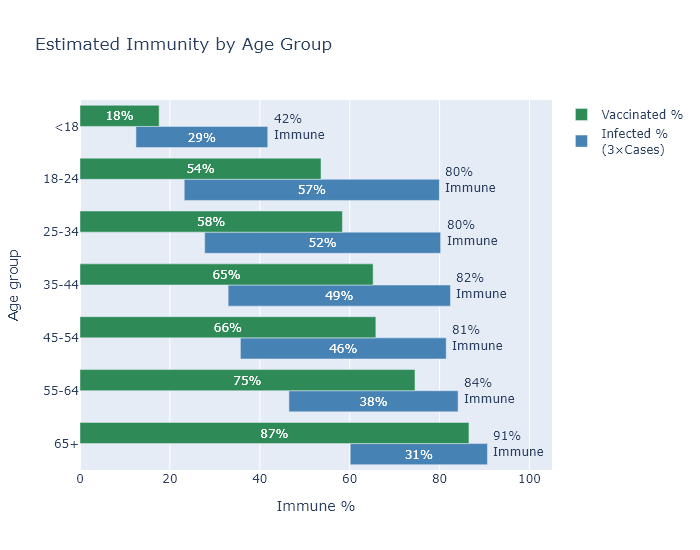
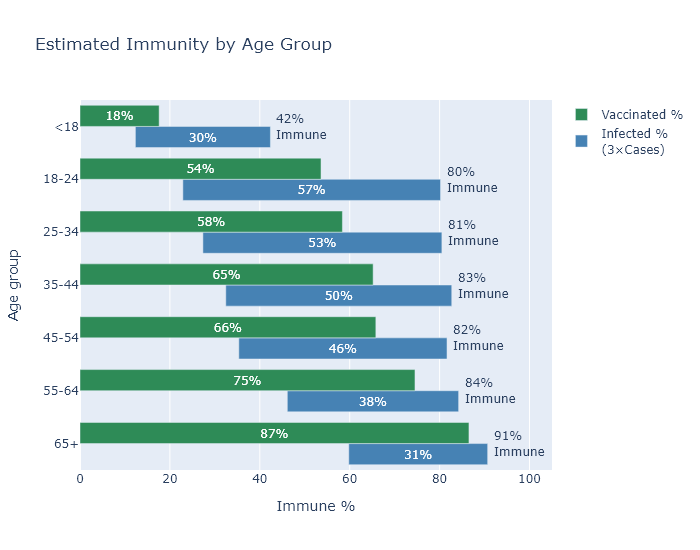
Immune update

diff --git a/docs/assets/plotly/Immune-Age.html b/docs/assets/plotly/Immune-Age.html
@@ -2,6 +2,6 @@
 <head><meta charset="utf-8" /></head>
 <body>
     <div>                        <script type="text/javascript">window.PlotlyConfig = {MathJaxConfig: 'local'};</script>
-        <script src="https://cdn.plot.ly/plotly-2.2.0.min.js"></script>                <div id="4af7ff85-3005-4d7d-97e8-a7afa78a392b" class="plotly-graph-div" style="height:550px; width:700px;"></div>            <script type="text/javascript">                                    window.PLOTLYENV=window.PLOTLYENV || {};                                    if (document.getElementById("4af7ff85-3005-4d7d-97e8-a7afa78a392b")) {                    Plotly.newPlot(                        "4af7ff85-3005-4d7d-97e8-a7afa78a392b",                        [{"alignmentgroup":"True","base":[60.1152527995265,46.476547258989115,35.68314380180941,32.95476228059364,27.73828306927856,23.188937403184084,12.44529407235307],"hovertemplate":"=Est Infected %<br>Base=%{base}<br>Immune %=%{x}<br>Age group=%{y}<br>Label=%{text}<extra></extra>","insidetextanchor":"middle","legendgroup":"Est Infected %","marker":{"color":"steelblue","pattern":{"shape":""}},"name":"Infected %<br>(3&times;Cases)","offsetgroup":"Est Infected %","orientation":"h","showlegend":true,"text":["31%","38%","46%","49%","52%","57%","29%"],"textposition":"inside","type":"bar","x":[30.523700455732744,37.63060369141561,45.78120459951647,49.46475261604958,52.482860107281155,56.751149912549636,29.3213140289945],"xaxis":"x","y":["65+","55-64","45-54","35-44","25-34","18-24","<18"],"yaxis":"y"},{"alignmentgroup":"True","base":[0.0,0.0,0.0,0.0,0.0,0.0,0.0],"hovertemplate":"=Vaccinated %<br>Base=%{base}<br>Immune %=%{x}<br>Age group=%{y}<br>Label=%{text}<extra></extra>","insidetextanchor":"middle","legendgroup":"Vaccinated %","marker":{"color":"seagreen","pattern":{"shape":""}},"name":"Vaccinated %","offsetgroup":"Vaccinated %","orientation":"h","showlegend":true,"text":["87%","75%","66%","65%","58%","54%","18%"],"textposition":"inside","type":"bar","x":[86.52627326707821,74.51819323220253,65.81323605262389,65.21143951312644,58.3753212670297,53.61746579688342,17.608270302957386],"xaxis":"x","y":["65+","55-64","45-54","35-44","25-34","18-24","<18"],"yaxis":"y"}],                        {"annotations":[{"align":"left","showarrow":false,"text":"42%<br>Immune","x":48.76660810134757,"y":"<18"},{"align":"left","showarrow":false,"text":"80%<br>Immune","x":86.94008731573372,"y":"18-24"},{"align":"left","showarrow":false,"text":"80%<br>Immune","x":87.2211431765597,"y":"25-34"},{"align":"left","showarrow":false,"text":"82%<br>Immune","x":89.41951489664322,"y":"35-44"},{"align":"left","showarrow":false,"text":"81%<br>Immune","x":88.46434840132588,"y":"45-54"},{"align":"left","showarrow":false,"text":"84%<br>Immune","x":91.10715095040472,"y":"55-64"},{"align":"left","showarrow":false,"text":"91%<br>Immune","x":97.63895325525924,"y":"65+"}],"barmode":"group","height":550,"legend":{"title":{"text":""},"tracegroupgap":0,"traceorder":"reversed"},"showlegend":true,"template":{"data":{"bar":[{"error_x":{"color":"#2a3f5f"},"error_y":{"color":"#2a3f5f"},"marker":{"line":{"color":"#E5ECF6","width":0.5},"pattern":{"fillmode":"overlay","size":10,"solidity":0.2}},"type":"bar"}],"barpolar":[{"marker":{"line":{"color":"#E5ECF6","width":0.5},"pattern":{"fillmode":"overlay","size":10,"solidity":0.2}},"type":"barpolar"}],"carpet":[{"aaxis":{"endlinecolor":"#2a3f5f","gridcolor":"white","linecolor":"white","minorgridcolor":"white","startlinecolor":"#2a3f5f"},"baxis":{"endlinecolor":"#2a3f5f","gridcolor":"white","linecolor":"white","minorgridcolor":"white","startlinecolor":"#2a3f5f"},"type":"carpet"}],"choropleth":[{"colorbar":{"outlinewidth":0,"ticks":""},"type":"choropleth"}],"contour":[{"colorbar":{"outlinewidth":0,"ticks":""},"colorscale":[[0.0,"#0d0887"],[0.1111111111111111,"#46039f"],[0.2222222222222222,"#7201a8"],[0.3333333333333333,"#9c179e"],[0.4444444444444444,"#bd3786"],[0.5555555555555556,"#d8576b"],[0.6666666666666666,"#ed7953"],[0.7777777777777778,"#fb9f3a"],[0.8888888888888888,"#fdca26"],[1.0,"#f0f921"]],"type":"contour"}],"contourcarpet":[{"colorbar":{"outlinewidth":0,"ticks":""},"type":"contourcarpet"}],"heatmap":[{"colorbar":{"outlinewidth":0,"ticks":""},"colorscale":[[0.0,"#0d0887"],[0.1111111111111111,"#46039f"],[0.2222222222222222,"#7201a8"],[0.3333333333333333,"#9c179e"],[0.4444444444444444,"#bd3786"],[0.5555555555555556,"#d8576b"],[0.6666666666666666,"#ed7953"],[0.7777777777777778,"#fb9f3a"],[0.8888888888888888,"#fdca26"],[1.0,"#f0f921"]],"type":"heatmap"}],"heatmapgl":[{"colorbar":{"outlinewidth":0,"ticks":""},"colorscale":[[0.0,"#0d0887"],[0.1111111111111111,"#46039f"],[0.2222222222222222,"#7201a8"],[0.3333333333333333,"#9c179e"],[0.4444444444444444,"#bd3786"],[0.5555555555555556,"#d8576b"],[0.6666666666666666,"#ed7953"],[0.7777777777777778,"#fb9f3a"],[0.8888888888888888,"#fdca26"],[1.0,"#f0f921"]],"type":"heatmapgl"}],"histogram":[{"marker":{"pattern":{"fillmode":"overlay","size":10,"solidity":0.2}},"type":"histogram"}],"histogram2d":[{"colorbar":{"outlinewidth":0,"ticks":""},"colorscale":[[0.0,"#0d0887"],[0.1111111111111111,"#46039f"],[0.2222222222222222,"#7201a8"],[0.3333333333333333,"#9c179e"],[0.4444444444444444,"#bd3786"],[0.5555555555555556,"#d8576b"],[0.6666666666666666,"#ed7953"],[0.7777777777777778,"#fb9f3a"],[0.8888888888888888,"#fdca26"],[1.0,"#f0f921"]],"type":"histogram2d"}],"histogram2dcontour":[{"colorbar":{"outlinewidth":0,"ticks":""},"colorscale":[[0.0,"#0d0887"],[0.1111111111111111,"#46039f"],[0.2222222222222222,"#7201a8"],[0.3333333333333333,"#9c179e"],[0.4444444444444444,"#bd3786"],[0.5555555555555556,"#d8576b"],[0.6666666666666666,"#ed7953"],[0.7777777777777778,"#fb9f3a"],[0.8888888888888888,"#fdca26"],[1.0,"#f0f921"]],"type":"histogram2dcontour"}],"mesh3d":[{"colorbar":{"outlinewidth":0,"ticks":""},"type":"mesh3d"}],"parcoords":[{"line":{"colorbar":{"outlinewidth":0,"ticks":""}},"type":"parcoords"}],"pie":[{"automargin":true,"type":"pie"}],"scatter":[{"marker":{"colorbar":{"outlinewidth":0,"ticks":""}},"type":"scatter"}],"scatter3d":[{"line":{"colorbar":{"outlinewidth":0,"ticks":""}},"marker":{"colorbar":{"outlinewidth":0,"ticks":""}},"type":"scatter3d"}],"scattercarpet":[{"marker":{"colorbar":{"outlinewidth":0,"ticks":""}},"type":"scattercarpet"}],"scattergeo":[{"marker":{"colorbar":{"outlinewidth":0,"ticks":""}},"type":"scattergeo"}],"scattergl":[{"marker":{"colorbar":{"outlinewidth":0,"ticks":""}},"type":"scattergl"}],"scattermapbox":[{"marker":{"colorbar":{"outlinewidth":0,"ticks":""}},"type":"scattermapbox"}],"scatterpolar":[{"marker":{"colorbar":{"outlinewidth":0,"ticks":""}},"type":"scatterpolar"}],"scatterpolargl":[{"marker":{"colorbar":{"outlinewidth":0,"ticks":""}},"type":"scatterpolargl"}],"scatterternary":[{"marker":{"colorbar":{"outlinewidth":0,"ticks":""}},"type":"scatterternary"}],"surface":[{"colorbar":{"outlinewidth":0,"ticks":""},"colorscale":[[0.0,"#0d0887"],[0.1111111111111111,"#46039f"],[0.2222222222222222,"#7201a8"],[0.3333333333333333,"#9c179e"],[0.4444444444444444,"#bd3786"],[0.5555555555555556,"#d8576b"],[0.6666666666666666,"#ed7953"],[0.7777777777777778,"#fb9f3a"],[0.8888888888888888,"#fdca26"],[1.0,"#f0f921"]],"type":"surface"}],"table":[{"cells":{"fill":{"color":"#EBF0F8"},"line":{"color":"white"}},"header":{"fill":{"color":"#C8D4E3"},"line":{"color":"white"}},"type":"table"}]},"layout":{"annotationdefaults":{"arrowcolor":"#2a3f5f","arrowhead":0,"arrowwidth":1},"autotypenumbers":"strict","coloraxis":{"colorbar":{"outlinewidth":0,"ticks":""}},"colorscale":{"diverging":[[0,"#8e0152"],[0.1,"#c51b7d"],[0.2,"#de77ae"],[0.3,"#f1b6da"],[0.4,"#fde0ef"],[0.5,"#f7f7f7"],[0.6,"#e6f5d0"],[0.7,"#b8e186"],[0.8,"#7fbc41"],[0.9,"#4d9221"],[1,"#276419"]],"sequential":[[0.0,"#0d0887"],[0.1111111111111111,"#46039f"],[0.2222222222222222,"#7201a8"],[0.3333333333333333,"#9c179e"],[0.4444444444444444,"#bd3786"],[0.5555555555555556,"#d8576b"],[0.6666666666666666,"#ed7953"],[0.7777777777777778,"#fb9f3a"],[0.8888888888888888,"#fdca26"],[1.0,"#f0f921"]],"sequentialminus":[[0.0,"#0d0887"],[0.1111111111111111,"#46039f"],[0.2222222222222222,"#7201a8"],[0.3333333333333333,"#9c179e"],[0.4444444444444444,"#bd3786"],[0.5555555555555556,"#d8576b"],[0.6666666666666666,"#ed7953"],[0.7777777777777778,"#fb9f3a"],[0.8888888888888888,"#fdca26"],[1.0,"#f0f921"]]},"colorway":["#636efa","#EF553B","#00cc96","#ab63fa","#FFA15A","#19d3f3","#FF6692","#B6E880","#FF97FF","#FECB52"],"font":{"color":"#2a3f5f"},"geo":{"bgcolor":"white","lakecolor":"white","landcolor":"#E5ECF6","showlakes":true,"showland":true,"subunitcolor":"white"},"hoverlabel":{"align":"left"},"hovermode":"closest","mapbox":{"style":"light"},"paper_bgcolor":"white","plot_bgcolor":"#E5ECF6","polar":{"angularaxis":{"gridcolor":"white","linecolor":"white","ticks":""},"bgcolor":"#E5ECF6","radialaxis":{"gridcolor":"white","linecolor":"white","ticks":""}},"scene":{"xaxis":{"backgroundcolor":"#E5ECF6","gridcolor":"white","gridwidth":2,"linecolor":"white","showbackground":true,"ticks":"","zerolinecolor":"white"},"yaxis":{"backgroundcolor":"#E5ECF6","gridcolor":"white","gridwidth":2,"linecolor":"white","showbackground":true,"ticks":"","zerolinecolor":"white"},"zaxis":{"backgroundcolor":"#E5ECF6","gridcolor":"white","gridwidth":2,"linecolor":"white","showbackground":true,"ticks":"","zerolinecolor":"white"}},"shapedefaults":{"line":{"color":"#2a3f5f"}},"ternary":{"aaxis":{"gridcolor":"white","linecolor":"white","ticks":""},"baxis":{"gridcolor":"white","linecolor":"white","ticks":""},"bgcolor":"#E5ECF6","caxis":{"gridcolor":"white","linecolor":"white","ticks":""}},"title":{"x":0.05},"xaxis":{"automargin":true,"gridcolor":"white","linecolor":"white","ticks":"","title":{"standoff":15},"zerolinecolor":"white","zerolinewidth":2},"yaxis":{"automargin":true,"gridcolor":"white","linecolor":"white","ticks":"","title":{"standoff":15},"zerolinecolor":"white","zerolinewidth":2}}},"title":{"text":"Estimated Immunity by Age Group"},"width":700,"xaxis":{"anchor":"y","domain":[0.0,1.0],"range":[0,105],"title":{"text":"Immune %"}},"yaxis":{"anchor":"x","domain":[0.0,1.0],"title":{"text":"Age group"}}},                        {"responsive": true}                    )                };                            </script>        </div>
+        <script src="https://cdn.plot.ly/plotly-2.4.2.min.js"></script>                <div id="1ae0a5e9-7027-494a-892e-b1b5bc7c7649" class="plotly-graph-div" style="height:550px; width:700px;"></div>            <script type="text/javascript">                                    window.PLOTLYENV=window.PLOTLYENV || {};                                    if (document.getElementById("1ae0a5e9-7027-494a-892e-b1b5bc7c7649")) {                    Plotly.newPlot(                        "1ae0a5e9-7027-494a-892e-b1b5bc7c7649",                        [{"alignmentgroup":"True","base":[59.78998264285761,46.11667738987194,35.33097139700838,32.43174615541207,27.34091459387901,22.88246003692666,12.318856909979727],"hovertemplate":"=Est Infected %<br>Base=%{base}<br>Immune %=%{x}<br>Age group=%{y}<br>Label=%{text}<extra></extra>","insidetextanchor":"middle","legendgroup":"Est Infected %","marker":{"color":"steelblue","pattern":{"shape":""}},"name":"Infected %<br>(3&times;Cases)","offsetgroup":"Est Infected %","orientation":"h","showlegend":true,"text":["31%","38%","46%","50%","53%","57%","30%"],"textposition":"inside","type":"bar","x":[30.899621137841507,38.113532562216065,46.316313379943914,50.26678386867403,53.163573235320044,57.32274978528223,30.03936958015279],"xaxis":"x","y":["65+","55-64","45-54","35-44","25-34","18-24","<18"],"yaxis":"y"},{"alignmentgroup":"True","base":[0.0,0.0,0.0,0.0,0.0,0.0,0.0],"hovertemplate":"=Vaccinated %<br>Base=%{base}<br>Immune %=%{x}<br>Age group=%{y}<br>Label=%{text}<extra></extra>","insidetextanchor":"middle","legendgroup":"Vaccinated %","marker":{"color":"seagreen","pattern":{"shape":""}},"name":"Vaccinated %","offsetgroup":"Vaccinated %","orientation":"h","showlegend":true,"text":["87%","75%","66%","65%","58%","54%","18%"],"textposition":"inside","type":"bar","x":[86.52627326707821,74.51819323220253,65.81323605262389,65.21143951312644,58.3753212670297,53.61746579688342,17.608270302957386],"xaxis":"x","y":["65+","55-64","45-54","35-44","25-34","18-24","<18"],"yaxis":"y"}],                        {"annotations":[{"align":"left","showarrow":false,"text":"42%<br>Immune","x":49.35822649013252,"y":"<18"},{"align":"left","showarrow":false,"text":"80%<br>Immune","x":87.20520982220889,"y":"18-24"},{"align":"left","showarrow":false,"text":"81%<br>Immune","x":87.50448782919905,"y":"25-34"},{"align":"left","showarrow":false,"text":"83%<br>Immune","x":89.69853002408611,"y":"35-44"},{"align":"left","showarrow":false,"text":"82%<br>Immune","x":88.64728477695229,"y":"45-54"},{"align":"left","showarrow":false,"text":"84%<br>Immune","x":91.230209952088,"y":"55-64"},{"align":"left","showarrow":false,"text":"91%<br>Immune","x":97.68960378069912,"y":"65+"}],"barmode":"group","height":550,"legend":{"title":{"text":""},"tracegroupgap":0,"traceorder":"reversed"},"showlegend":true,"template":{"data":{"bar":[{"error_x":{"color":"#2a3f5f"},"error_y":{"color":"#2a3f5f"},"marker":{"line":{"color":"#E5ECF6","width":0.5},"pattern":{"fillmode":"overlay","size":10,"solidity":0.2}},"type":"bar"}],"barpolar":[{"marker":{"line":{"color":"#E5ECF6","width":0.5},"pattern":{"fillmode":"overlay","size":10,"solidity":0.2}},"type":"barpolar"}],"carpet":[{"aaxis":{"endlinecolor":"#2a3f5f","gridcolor":"white","linecolor":"white","minorgridcolor":"white","startlinecolor":"#2a3f5f"},"baxis":{"endlinecolor":"#2a3f5f","gridcolor":"white","linecolor":"white","minorgridcolor":"white","startlinecolor":"#2a3f5f"},"type":"carpet"}],"choropleth":[{"colorbar":{"outlinewidth":0,"ticks":""},"type":"choropleth"}],"contour":[{"colorbar":{"outlinewidth":0,"ticks":""},"colorscale":[[0.0,"#0d0887"],[0.1111111111111111,"#46039f"],[0.2222222222222222,"#7201a8"],[0.3333333333333333,"#9c179e"],[0.4444444444444444,"#bd3786"],[0.5555555555555556,"#d8576b"],[0.6666666666666666,"#ed7953"],[0.7777777777777778,"#fb9f3a"],[0.8888888888888888,"#fdca26"],[1.0,"#f0f921"]],"type":"contour"}],"contourcarpet":[{"colorbar":{"outlinewidth":0,"ticks":""},"type":"contourcarpet"}],"heatmap":[{"colorbar":{"outlinewidth":0,"ticks":""},"colorscale":[[0.0,"#0d0887"],[0.1111111111111111,"#46039f"],[0.2222222222222222,"#7201a8"],[0.3333333333333333,"#9c179e"],[0.4444444444444444,"#bd3786"],[0.5555555555555556,"#d8576b"],[0.6666666666666666,"#ed7953"],[0.7777777777777778,"#fb9f3a"],[0.8888888888888888,"#fdca26"],[1.0,"#f0f921"]],"type":"heatmap"}],"heatmapgl":[{"colorbar":{"outlinewidth":0,"ticks":""},"colorscale":[[0.0,"#0d0887"],[0.1111111111111111,"#46039f"],[0.2222222222222222,"#7201a8"],[0.3333333333333333,"#9c179e"],[0.4444444444444444,"#bd3786"],[0.5555555555555556,"#d8576b"],[0.6666666666666666,"#ed7953"],[0.7777777777777778,"#fb9f3a"],[0.8888888888888888,"#fdca26"],[1.0,"#f0f921"]],"type":"heatmapgl"}],"histogram":[{"marker":{"pattern":{"fillmode":"overlay","size":10,"solidity":0.2}},"type":"histogram"}],"histogram2d":[{"colorbar":{"outlinewidth":0,"ticks":""},"colorscale":[[0.0,"#0d0887"],[0.1111111111111111,"#46039f"],[0.2222222222222222,"#7201a8"],[0.3333333333333333,"#9c179e"],[0.4444444444444444,"#bd3786"],[0.5555555555555556,"#d8576b"],[0.6666666666666666,"#ed7953"],[0.7777777777777778,"#fb9f3a"],[0.8888888888888888,"#fdca26"],[1.0,"#f0f921"]],"type":"histogram2d"}],"histogram2dcontour":[{"colorbar":{"outlinewidth":0,"ticks":""},"colorscale":[[0.0,"#0d0887"],[0.1111111111111111,"#46039f"],[0.2222222222222222,"#7201a8"],[0.3333333333333333,"#9c179e"],[0.4444444444444444,"#bd3786"],[0.5555555555555556,"#d8576b"],[0.6666666666666666,"#ed7953"],[0.7777777777777778,"#fb9f3a"],[0.8888888888888888,"#fdca26"],[1.0,"#f0f921"]],"type":"histogram2dcontour"}],"mesh3d":[{"colorbar":{"outlinewidth":0,"ticks":""},"type":"mesh3d"}],"parcoords":[{"line":{"colorbar":{"outlinewidth":0,"ticks":""}},"type":"parcoords"}],"pie":[{"automargin":true,"type":"pie"}],"scatter":[{"marker":{"colorbar":{"outlinewidth":0,"ticks":""}},"type":"scatter"}],"scatter3d":[{"line":{"colorbar":{"outlinewidth":0,"ticks":""}},"marker":{"colorbar":{"outlinewidth":0,"ticks":""}},"type":"scatter3d"}],"scattercarpet":[{"marker":{"colorbar":{"outlinewidth":0,"ticks":""}},"type":"scattercarpet"}],"scattergeo":[{"marker":{"colorbar":{"outlinewidth":0,"ticks":""}},"type":"scattergeo"}],"scattergl":[{"marker":{"colorbar":{"outlinewidth":0,"ticks":""}},"type":"scattergl"}],"scattermapbox":[{"marker":{"colorbar":{"outlinewidth":0,"ticks":""}},"type":"scattermapbox"}],"scatterpolar":[{"marker":{"colorbar":{"outlinewidth":0,"ticks":""}},"type":"scatterpolar"}],"scatterpolargl":[{"marker":{"colorbar":{"outlinewidth":0,"ticks":""}},"type":"scatterpolargl"}],"scatterternary":[{"marker":{"colorbar":{"outlinewidth":0,"ticks":""}},"type":"scatterternary"}],"surface":[{"colorbar":{"outlinewidth":0,"ticks":""},"colorscale":[[0.0,"#0d0887"],[0.1111111111111111,"#46039f"],[0.2222222222222222,"#7201a8"],[0.3333333333333333,"#9c179e"],[0.4444444444444444,"#bd3786"],[0.5555555555555556,"#d8576b"],[0.6666666666666666,"#ed7953"],[0.7777777777777778,"#fb9f3a"],[0.8888888888888888,"#fdca26"],[1.0,"#f0f921"]],"type":"surface"}],"table":[{"cells":{"fill":{"color":"#EBF0F8"},"line":{"color":"white"}},"header":{"fill":{"color":"#C8D4E3"},"line":{"color":"white"}},"type":"table"}]},"layout":{"annotationdefaults":{"arrowcolor":"#2a3f5f","arrowhead":0,"arrowwidth":1},"autotypenumbers":"strict","coloraxis":{"colorbar":{"outlinewidth":0,"ticks":""}},"colorscale":{"diverging":[[0,"#8e0152"],[0.1,"#c51b7d"],[0.2,"#de77ae"],[0.3,"#f1b6da"],[0.4,"#fde0ef"],[0.5,"#f7f7f7"],[0.6,"#e6f5d0"],[0.7,"#b8e186"],[0.8,"#7fbc41"],[0.9,"#4d9221"],[1,"#276419"]],"sequential":[[0.0,"#0d0887"],[0.1111111111111111,"#46039f"],[0.2222222222222222,"#7201a8"],[0.3333333333333333,"#9c179e"],[0.4444444444444444,"#bd3786"],[0.5555555555555556,"#d8576b"],[0.6666666666666666,"#ed7953"],[0.7777777777777778,"#fb9f3a"],[0.8888888888888888,"#fdca26"],[1.0,"#f0f921"]],"sequentialminus":[[0.0,"#0d0887"],[0.1111111111111111,"#46039f"],[0.2222222222222222,"#7201a8"],[0.3333333333333333,"#9c179e"],[0.4444444444444444,"#bd3786"],[0.5555555555555556,"#d8576b"],[0.6666666666666666,"#ed7953"],[0.7777777777777778,"#fb9f3a"],[0.8888888888888888,"#fdca26"],[1.0,"#f0f921"]]},"colorway":["#636efa","#EF553B","#00cc96","#ab63fa","#FFA15A","#19d3f3","#FF6692","#B6E880","#FF97FF","#FECB52"],"font":{"color":"#2a3f5f"},"geo":{"bgcolor":"white","lakecolor":"white","landcolor":"#E5ECF6","showlakes":true,"showland":true,"subunitcolor":"white"},"hoverlabel":{"align":"left"},"hovermode":"closest","mapbox":{"style":"light"},"paper_bgcolor":"white","plot_bgcolor":"#E5ECF6","polar":{"angularaxis":{"gridcolor":"white","linecolor":"white","ticks":""},"bgcolor":"#E5ECF6","radialaxis":{"gridcolor":"white","linecolor":"white","ticks":""}},"scene":{"xaxis":{"backgroundcolor":"#E5ECF6","gridcolor":"white","gridwidth":2,"linecolor":"white","showbackground":true,"ticks":"","zerolinecolor":"white"},"yaxis":{"backgroundcolor":"#E5ECF6","gridcolor":"white","gridwidth":2,"linecolor":"white","showbackground":true,"ticks":"","zerolinecolor":"white"},"zaxis":{"backgroundcolor":"#E5ECF6","gridcolor":"white","gridwidth":2,"linecolor":"white","showbackground":true,"ticks":"","zerolinecolor":"white"}},"shapedefaults":{"line":{"color":"#2a3f5f"}},"ternary":{"aaxis":{"gridcolor":"white","linecolor":"white","ticks":""},"baxis":{"gridcolor":"white","linecolor":"white","ticks":""},"bgcolor":"#E5ECF6","caxis":{"gridcolor":"white","linecolor":"white","ticks":""}},"title":{"x":0.05},"xaxis":{"automargin":true,"gridcolor":"white","linecolor":"white","ticks":"","title":{"standoff":15},"zerolinecolor":"white","zerolinewidth":2},"yaxis":{"automargin":true,"gridcolor":"white","linecolor":"white","ticks":"","title":{"standoff":15},"zerolinecolor":"white","zerolinewidth":2}}},"title":{"text":"Estimated Immunity by Age Group"},"width":700,"xaxis":{"anchor":"y","domain":[0.0,1.0],"range":[0,105],"title":{"text":"Immune %"}},"yaxis":{"anchor":"x","domain":[0.0,1.0],"title":{"text":"Age group"}}},                        {"responsive": true}                    )                };                            </script>        </div>
 </body>
 </html>

diff --git a/docs/assets/plotly/Immune-Total.html b/docs/assets/plotly/Immune-Total.html
@@ -2,6 +2,6 @@
 <head><meta charset="utf-8" /></head>
 <body>
     <div>                        <script type="text/javascript">window.PlotlyConfig = {MathJaxConfig: 'local'};</script>
-        <script src="https://cdn.plot.ly/plotly-2.2.0.min.js"></script>                <div id="6cca0f30-dc75-4450-8c4f-656d11b157eb" class="plotly-graph-div" style="height:250px; width:700px;"></div>            <script type="text/javascript">                                    window.PLOTLYENV=window.PLOTLYENV || {};                                    if (document.getElementById("6cca0f30-dc75-4450-8c4f-656d11b157eb")) {                    Plotly.newPlot(                        "6cca0f30-dc75-4450-8c4f-656d11b157eb",                        [{"alignmentgroup":"True","base":[34.424449934702636],"hovertemplate":"=Est Infected %<br>Base=%{base}<br>Immune %=%{x}<br>Age group=%{y}<br>Label=%{text}<extra></extra>","insidetextanchor":"middle","legendgroup":"Est Infected %","marker":{"color":"steelblue","pattern":{"shape":""}},"name":"Infected %<br>(3&times;Cases)","offsetgroup":"Est Infected %","orientation":"h","showlegend":true,"text":["41%"],"textposition":"inside","type":"bar","x":[40.708078442795575],"xaxis":"x","y":[" "],"yaxis":"y"},{"alignmentgroup":"True","base":[0.0],"hovertemplate":"=Vaccinated %<br>Base=%{base}<br>Immune %=%{x}<br>Age group=%{y}<br>Label=%{text}<extra></extra>","insidetextanchor":"middle","legendgroup":"Vaccinated %","marker":{"color":"seagreen","pattern":{"shape":""}},"name":"Vaccinated %","offsetgroup":"Vaccinated %","orientation":"h","showlegend":true,"text":["58%"],"textposition":"inside","type":"bar","x":[58.05925837888416],"xaxis":"x","y":[" "],"yaxis":"y"}],                        {"annotations":[{"align":"left","showarrow":false,"text":"75%<br>Immune","x":82.1325283774982,"y":" "}],"barmode":"group","height":250,"legend":{"title":{"text":""},"tracegroupgap":0,"traceorder":"reversed"},"showlegend":true,"template":{"data":{"bar":[{"error_x":{"color":"#2a3f5f"},"error_y":{"color":"#2a3f5f"},"marker":{"line":{"color":"#E5ECF6","width":0.5},"pattern":{"fillmode":"overlay","size":10,"solidity":0.2}},"type":"bar"}],"barpolar":[{"marker":{"line":{"color":"#E5ECF6","width":0.5},"pattern":{"fillmode":"overlay","size":10,"solidity":0.2}},"type":"barpolar"}],"carpet":[{"aaxis":{"endlinecolor":"#2a3f5f","gridcolor":"white","linecolor":"white","minorgridcolor":"white","startlinecolor":"#2a3f5f"},"baxis":{"endlinecolor":"#2a3f5f","gridcolor":"white","linecolor":"white","minorgridcolor":"white","startlinecolor":"#2a3f5f"},"type":"carpet"}],"choropleth":[{"colorbar":{"outlinewidth":0,"ticks":""},"type":"choropleth"}],"contour":[{"colorbar":{"outlinewidth":0,"ticks":""},"colorscale":[[0.0,"#0d0887"],[0.1111111111111111,"#46039f"],[0.2222222222222222,"#7201a8"],[0.3333333333333333,"#9c179e"],[0.4444444444444444,"#bd3786"],[0.5555555555555556,"#d8576b"],[0.6666666666666666,"#ed7953"],[0.7777777777777778,"#fb9f3a"],[0.8888888888888888,"#fdca26"],[1.0,"#f0f921"]],"type":"contour"}],"contourcarpet":[{"colorbar":{"outlinewidth":0,"ticks":""},"type":"contourcarpet"}],"heatmap":[{"colorbar":{"outlinewidth":0,"ticks":""},"colorscale":[[0.0,"#0d0887"],[0.1111111111111111,"#46039f"],[0.2222222222222222,"#7201a8"],[0.3333333333333333,"#9c179e"],[0.4444444444444444,"#bd3786"],[0.5555555555555556,"#d8576b"],[0.6666666666666666,"#ed7953"],[0.7777777777777778,"#fb9f3a"],[0.8888888888888888,"#fdca26"],[1.0,"#f0f921"]],"type":"heatmap"}],"heatmapgl":[{"colorbar":{"outlinewidth":0,"ticks":""},"colorscale":[[0.0,"#0d0887"],[0.1111111111111111,"#46039f"],[0.2222222222222222,"#7201a8"],[0.3333333333333333,"#9c179e"],[0.4444444444444444,"#bd3786"],[0.5555555555555556,"#d8576b"],[0.6666666666666666,"#ed7953"],[0.7777777777777778,"#fb9f3a"],[0.8888888888888888,"#fdca26"],[1.0,"#f0f921"]],"type":"heatmapgl"}],"histogram":[{"marker":{"pattern":{"fillmode":"overlay","size":10,"solidity":0.2}},"type":"histogram"}],"histogram2d":[{"colorbar":{"outlinewidth":0,"ticks":""},"colorscale":[[0.0,"#0d0887"],[0.1111111111111111,"#46039f"],[0.2222222222222222,"#7201a8"],[0.3333333333333333,"#9c179e"],[0.4444444444444444,"#bd3786"],[0.5555555555555556,"#d8576b"],[0.6666666666666666,"#ed7953"],[0.7777777777777778,"#fb9f3a"],[0.8888888888888888,"#fdca26"],[1.0,"#f0f921"]],"type":"histogram2d"}],"histogram2dcontour":[{"colorbar":{"outlinewidth":0,"ticks":""},"colorscale":[[0.0,"#0d0887"],[0.1111111111111111,"#46039f"],[0.2222222222222222,"#7201a8"],[0.3333333333333333,"#9c179e"],[0.4444444444444444,"#bd3786"],[0.5555555555555556,"#d8576b"],[0.6666666666666666,"#ed7953"],[0.7777777777777778,"#fb9f3a"],[0.8888888888888888,"#fdca26"],[1.0,"#f0f921"]],"type":"histogram2dcontour"}],"mesh3d":[{"colorbar":{"outlinewidth":0,"ticks":""},"type":"mesh3d"}],"parcoords":[{"line":{"colorbar":{"outlinewidth":0,"ticks":""}},"type":"parcoords"}],"pie":[{"automargin":true,"type":"pie"}],"scatter":[{"marker":{"colorbar":{"outlinewidth":0,"ticks":""}},"type":"scatter"}],"scatter3d":[{"line":{"colorbar":{"outlinewidth":0,"ticks":""}},"marker":{"colorbar":{"outlinewidth":0,"ticks":""}},"type":"scatter3d"}],"scattercarpet":[{"marker":{"colorbar":{"outlinewidth":0,"ticks":""}},"type":"scattercarpet"}],"scattergeo":[{"marker":{"colorbar":{"outlinewidth":0,"ticks":""}},"type":"scattergeo"}],"scattergl":[{"marker":{"colorbar":{"outlinewidth":0,"ticks":""}},"type":"scattergl"}],"scattermapbox":[{"marker":{"colorbar":{"outlinewidth":0,"ticks":""}},"type":"scattermapbox"}],"scatterpolar":[{"marker":{"colorbar":{"outlinewidth":0,"ticks":""}},"type":"scatterpolar"}],"scatterpolargl":[{"marker":{"colorbar":{"outlinewidth":0,"ticks":""}},"type":"scatterpolargl"}],"scatterternary":[{"marker":{"colorbar":{"outlinewidth":0,"ticks":""}},"type":"scatterternary"}],"surface":[{"colorbar":{"outlinewidth":0,"ticks":""},"colorscale":[[0.0,"#0d0887"],[0.1111111111111111,"#46039f"],[0.2222222222222222,"#7201a8"],[0.3333333333333333,"#9c179e"],[0.4444444444444444,"#bd3786"],[0.5555555555555556,"#d8576b"],[0.6666666666666666,"#ed7953"],[0.7777777777777778,"#fb9f3a"],[0.8888888888888888,"#fdca26"],[1.0,"#f0f921"]],"type":"surface"}],"table":[{"cells":{"fill":{"color":"#EBF0F8"},"line":{"color":"white"}},"header":{"fill":{"color":"#C8D4E3"},"line":{"color":"white"}},"type":"table"}]},"layout":{"annotationdefaults":{"arrowcolor":"#2a3f5f","arrowhead":0,"arrowwidth":1},"autotypenumbers":"strict","coloraxis":{"colorbar":{"outlinewidth":0,"ticks":""}},"colorscale":{"diverging":[[0,"#8e0152"],[0.1,"#c51b7d"],[0.2,"#de77ae"],[0.3,"#f1b6da"],[0.4,"#fde0ef"],[0.5,"#f7f7f7"],[0.6,"#e6f5d0"],[0.7,"#b8e186"],[0.8,"#7fbc41"],[0.9,"#4d9221"],[1,"#276419"]],"sequential":[[0.0,"#0d0887"],[0.1111111111111111,"#46039f"],[0.2222222222222222,"#7201a8"],[0.3333333333333333,"#9c179e"],[0.4444444444444444,"#bd3786"],[0.5555555555555556,"#d8576b"],[0.6666666666666666,"#ed7953"],[0.7777777777777778,"#fb9f3a"],[0.8888888888888888,"#fdca26"],[1.0,"#f0f921"]],"sequentialminus":[[0.0,"#0d0887"],[0.1111111111111111,"#46039f"],[0.2222222222222222,"#7201a8"],[0.3333333333333333,"#9c179e"],[0.4444444444444444,"#bd3786"],[0.5555555555555556,"#d8576b"],[0.6666666666666666,"#ed7953"],[0.7777777777777778,"#fb9f3a"],[0.8888888888888888,"#fdca26"],[1.0,"#f0f921"]]},"colorway":["#636efa","#EF553B","#00cc96","#ab63fa","#FFA15A","#19d3f3","#FF6692","#B6E880","#FF97FF","#FECB52"],"font":{"color":"#2a3f5f"},"geo":{"bgcolor":"white","lakecolor":"white","landcolor":"#E5ECF6","showlakes":true,"showland":true,"subunitcolor":"white"},"hoverlabel":{"align":"left"},"hovermode":"closest","mapbox":{"style":"light"},"paper_bgcolor":"white","plot_bgcolor":"#E5ECF6","polar":{"angularaxis":{"gridcolor":"white","linecolor":"white","ticks":""},"bgcolor":"#E5ECF6","radialaxis":{"gridcolor":"white","linecolor":"white","ticks":""}},"scene":{"xaxis":{"backgroundcolor":"#E5ECF6","gridcolor":"white","gridwidth":2,"linecolor":"white","showbackground":true,"ticks":"","zerolinecolor":"white"},"yaxis":{"backgroundcolor":"#E5ECF6","gridcolor":"white","gridwidth":2,"linecolor":"white","showbackground":true,"ticks":"","zerolinecolor":"white"},"zaxis":{"backgroundcolor":"#E5ECF6","gridcolor":"white","gridwidth":2,"linecolor":"white","showbackground":true,"ticks":"","zerolinecolor":"white"}},"shapedefaults":{"line":{"color":"#2a3f5f"}},"ternary":{"aaxis":{"gridcolor":"white","linecolor":"white","ticks":""},"baxis":{"gridcolor":"white","linecolor":"white","ticks":""},"bgcolor":"#E5ECF6","caxis":{"gridcolor":"white","linecolor":"white","ticks":""}},"title":{"x":0.05},"xaxis":{"automargin":true,"gridcolor":"white","linecolor":"white","ticks":"","title":{"standoff":15},"zerolinecolor":"white","zerolinewidth":2},"yaxis":{"automargin":true,"gridcolor":"white","linecolor":"white","ticks":"","title":{"standoff":15},"zerolinecolor":"white","zerolinewidth":2}}},"title":{"text":"Estimated Immunity in Wisconsin"},"width":700,"xaxis":{"anchor":"y","domain":[0.0,1.0],"range":[0,105],"title":{"text":"Immune %"}},"yaxis":{"anchor":"x","domain":[0.0,1.0],"title":{"text":""}}},                        {"responsive": true}                    )                };                            </script>        </div>
+        <script src="https://cdn.plot.ly/plotly-2.4.2.min.js"></script>                <div id="77c6ed33-1b02-4792-b93d-d215ec913e10" class="plotly-graph-div" style="height:250px; width:700px;"></div>            <script type="text/javascript">                                    window.PLOTLYENV=window.PLOTLYENV || {};                                    if (document.getElementById("77c6ed33-1b02-4792-b93d-d215ec913e10")) {                    Plotly.newPlot(                        "77c6ed33-1b02-4792-b93d-d215ec913e10",                        [{"alignmentgroup":"True","base":[34.07950073903966],"hovertemplate":"=Est Infected %<br>Base=%{base}<br>Immune %=%{x}<br>Age group=%{y}<br>Label=%{text}<extra></extra>","insidetextanchor":"middle","legendgroup":"Est Infected %","marker":{"color":"steelblue","pattern":{"shape":""}},"name":"Infected %<br>(3&times;Cases)","offsetgroup":"Est Infected %","orientation":"h","showlegend":true,"text":["41%"],"textposition":"inside","type":"bar","x":[41.30221141192842],"xaxis":"x","y":[" "],"yaxis":"y"},{"alignmentgroup":"True","base":[0.0],"hovertemplate":"=Vaccinated %<br>Base=%{base}<br>Immune %=%{x}<br>Age group=%{y}<br>Label=%{text}<extra></extra>","insidetextanchor":"middle","legendgroup":"Vaccinated %","marker":{"color":"seagreen","pattern":{"shape":""}},"name":"Vaccinated %","offsetgroup":"Vaccinated %","orientation":"h","showlegend":true,"text":["58%"],"textposition":"inside","type":"bar","x":[58.05925837888416],"xaxis":"x","y":[" "],"yaxis":"y"}],                        {"annotations":[{"align":"left","showarrow":false,"text":"75%<br>Immune","x":82.38171215096807,"y":" "}],"barmode":"group","height":250,"legend":{"title":{"text":""},"tracegroupgap":0,"traceorder":"reversed"},"showlegend":true,"template":{"data":{"bar":[{"error_x":{"color":"#2a3f5f"},"error_y":{"color":"#2a3f5f"},"marker":{"line":{"color":"#E5ECF6","width":0.5},"pattern":{"fillmode":"overlay","size":10,"solidity":0.2}},"type":"bar"}],"barpolar":[{"marker":{"line":{"color":"#E5ECF6","width":0.5},"pattern":{"fillmode":"overlay","size":10,"solidity":0.2}},"type":"barpolar"}],"carpet":[{"aaxis":{"endlinecolor":"#2a3f5f","gridcolor":"white","linecolor":"white","minorgridcolor":"white","startlinecolor":"#2a3f5f"},"baxis":{"endlinecolor":"#2a3f5f","gridcolor":"white","linecolor":"white","minorgridcolor":"white","startlinecolor":"#2a3f5f"},"type":"carpet"}],"choropleth":[{"colorbar":{"outlinewidth":0,"ticks":""},"type":"choropleth"}],"contour":[{"colorbar":{"outlinewidth":0,"ticks":""},"colorscale":[[0.0,"#0d0887"],[0.1111111111111111,"#46039f"],[0.2222222222222222,"#7201a8"],[0.3333333333333333,"#9c179e"],[0.4444444444444444,"#bd3786"],[0.5555555555555556,"#d8576b"],[0.6666666666666666,"#ed7953"],[0.7777777777777778,"#fb9f3a"],[0.8888888888888888,"#fdca26"],[1.0,"#f0f921"]],"type":"contour"}],"contourcarpet":[{"colorbar":{"outlinewidth":0,"ticks":""},"type":"contourcarpet"}],"heatmap":[{"colorbar":{"outlinewidth":0,"ticks":""},"colorscale":[[0.0,"#0d0887"],[0.1111111111111111,"#46039f"],[0.2222222222222222,"#7201a8"],[0.3333333333333333,"#9c179e"],[0.4444444444444444,"#bd3786"],[0.5555555555555556,"#d8576b"],[0.6666666666666666,"#ed7953"],[0.7777777777777778,"#fb9f3a"],[0.8888888888888888,"#fdca26"],[1.0,"#f0f921"]],"type":"heatmap"}],"heatmapgl":[{"colorbar":{"outlinewidth":0,"ticks":""},"colorscale":[[0.0,"#0d0887"],[0.1111111111111111,"#46039f"],[0.2222222222222222,"#7201a8"],[0.3333333333333333,"#9c179e"],[0.4444444444444444,"#bd3786"],[0.5555555555555556,"#d8576b"],[0.6666666666666666,"#ed7953"],[0.7777777777777778,"#fb9f3a"],[0.8888888888888888,"#fdca26"],[1.0,"#f0f921"]],"type":"heatmapgl"}],"histogram":[{"marker":{"pattern":{"fillmode":"overlay","size":10,"solidity":0.2}},"type":"histogram"}],"histogram2d":[{"colorbar":{"outlinewidth":0,"ticks":""},"colorscale":[[0.0,"#0d0887"],[0.1111111111111111,"#46039f"],[0.2222222222222222,"#7201a8"],[0.3333333333333333,"#9c179e"],[0.4444444444444444,"#bd3786"],[0.5555555555555556,"#d8576b"],[0.6666666666666666,"#ed7953"],[0.7777777777777778,"#fb9f3a"],[0.8888888888888888,"#fdca26"],[1.0,"#f0f921"]],"type":"histogram2d"}],"histogram2dcontour":[{"colorbar":{"outlinewidth":0,"ticks":""},"colorscale":[[0.0,"#0d0887"],[0.1111111111111111,"#46039f"],[0.2222222222222222,"#7201a8"],[0.3333333333333333,"#9c179e"],[0.4444444444444444,"#bd3786"],[0.5555555555555556,"#d8576b"],[0.6666666666666666,"#ed7953"],[0.7777777777777778,"#fb9f3a"],[0.8888888888888888,"#fdca26"],[1.0,"#f0f921"]],"type":"histogram2dcontour"}],"mesh3d":[{"colorbar":{"outlinewidth":0,"ticks":""},"type":"mesh3d"}],"parcoords":[{"line":{"colorbar":{"outlinewidth":0,"ticks":""}},"type":"parcoords"}],"pie":[{"automargin":true,"type":"pie"}],"scatter":[{"marker":{"colorbar":{"outlinewidth":0,"ticks":""}},"type":"scatter"}],"scatter3d":[{"line":{"colorbar":{"outlinewidth":0,"ticks":""}},"marker":{"colorbar":{"outlinewidth":0,"ticks":""}},"type":"scatter3d"}],"scattercarpet":[{"marker":{"colorbar":{"outlinewidth":0,"ticks":""}},"type":"scattercarpet"}],"scattergeo":[{"marker":{"colorbar":{"outlinewidth":0,"ticks":""}},"type":"scattergeo"}],"scattergl":[{"marker":{"colorbar":{"outlinewidth":0,"ticks":""}},"type":"scattergl"}],"scattermapbox":[{"marker":{"colorbar":{"outlinewidth":0,"ticks":""}},"type":"scattermapbox"}],"scatterpolar":[{"marker":{"colorbar":{"outlinewidth":0,"ticks":""}},"type":"scatterpolar"}],"scatterpolargl":[{"marker":{"colorbar":{"outlinewidth":0,"ticks":""}},"type":"scatterpolargl"}],"scatterternary":[{"marker":{"colorbar":{"outlinewidth":0,"ticks":""}},"type":"scatterternary"}],"surface":[{"colorbar":{"outlinewidth":0,"ticks":""},"colorscale":[[0.0,"#0d0887"],[0.1111111111111111,"#46039f"],[0.2222222222222222,"#7201a8"],[0.3333333333333333,"#9c179e"],[0.4444444444444444,"#bd3786"],[0.5555555555555556,"#d8576b"],[0.6666666666666666,"#ed7953"],[0.7777777777777778,"#fb9f3a"],[0.8888888888888888,"#fdca26"],[1.0,"#f0f921"]],"type":"surface"}],"table":[{"cells":{"fill":{"color":"#EBF0F8"},"line":{"color":"white"}},"header":{"fill":{"color":"#C8D4E3"},"line":{"color":"white"}},"type":"table"}]},"layout":{"annotationdefaults":{"arrowcolor":"#2a3f5f","arrowhead":0,"arrowwidth":1},"autotypenumbers":"strict","coloraxis":{"colorbar":{"outlinewidth":0,"ticks":""}},"colorscale":{"diverging":[[0,"#8e0152"],[0.1,"#c51b7d"],[0.2,"#de77ae"],[0.3,"#f1b6da"],[0.4,"#fde0ef"],[0.5,"#f7f7f7"],[0.6,"#e6f5d0"],[0.7,"#b8e186"],[0.8,"#7fbc41"],[0.9,"#4d9221"],[1,"#276419"]],"sequential":[[0.0,"#0d0887"],[0.1111111111111111,"#46039f"],[0.2222222222222222,"#7201a8"],[0.3333333333333333,"#9c179e"],[0.4444444444444444,"#bd3786"],[0.5555555555555556,"#d8576b"],[0.6666666666666666,"#ed7953"],[0.7777777777777778,"#fb9f3a"],[0.8888888888888888,"#fdca26"],[1.0,"#f0f921"]],"sequentialminus":[[0.0,"#0d0887"],[0.1111111111111111,"#46039f"],[0.2222222222222222,"#7201a8"],[0.3333333333333333,"#9c179e"],[0.4444444444444444,"#bd3786"],[0.5555555555555556,"#d8576b"],[0.6666666666666666,"#ed7953"],[0.7777777777777778,"#fb9f3a"],[0.8888888888888888,"#fdca26"],[1.0,"#f0f921"]]},"colorway":["#636efa","#EF553B","#00cc96","#ab63fa","#FFA15A","#19d3f3","#FF6692","#B6E880","#FF97FF","#FECB52"],"font":{"color":"#2a3f5f"},"geo":{"bgcolor":"white","lakecolor":"white","landcolor":"#E5ECF6","showlakes":true,"showland":true,"subunitcolor":"white"},"hoverlabel":{"align":"left"},"hovermode":"closest","mapbox":{"style":"light"},"paper_bgcolor":"white","plot_bgcolor":"#E5ECF6","polar":{"angularaxis":{"gridcolor":"white","linecolor":"white","ticks":""},"bgcolor":"#E5ECF6","radialaxis":{"gridcolor":"white","linecolor":"white","ticks":""}},"scene":{"xaxis":{"backgroundcolor":"#E5ECF6","gridcolor":"white","gridwidth":2,"linecolor":"white","showbackground":true,"ticks":"","zerolinecolor":"white"},"yaxis":{"backgroundcolor":"#E5ECF6","gridcolor":"white","gridwidth":2,"linecolor":"white","showbackground":true,"ticks":"","zerolinecolor":"white"},"zaxis":{"backgroundcolor":"#E5ECF6","gridcolor":"white","gridwidth":2,"linecolor":"white","showbackground":true,"ticks":"","zerolinecolor":"white"}},"shapedefaults":{"line":{"color":"#2a3f5f"}},"ternary":{"aaxis":{"gridcolor":"white","linecolor":"white","ticks":""},"baxis":{"gridcolor":"white","linecolor":"white","ticks":""},"bgcolor":"#E5ECF6","caxis":{"gridcolor":"white","linecolor":"white","ticks":""}},"title":{"x":0.05},"xaxis":{"automargin":true,"gridcolor":"white","linecolor":"white","ticks":"","title":{"standoff":15},"zerolinecolor":"white","zerolinewidth":2},"yaxis":{"automargin":true,"gridcolor":"white","linecolor":"white","ticks":"","title":{"standoff":15},"zerolinecolor":"white","zerolinewidth":2}}},"title":{"text":"Estimated Immunity in Wisconsin"},"width":700,"xaxis":{"anchor":"y","domain":[0.0,1.0],"range":[0,105],"title":{"text":"Immune %"}},"yaxis":{"anchor":"x","domain":[0.0,1.0],"title":{"text":""}}},                        {"responsive": true}                    )                };                            </script>        </div>
 </body>
 </html>
